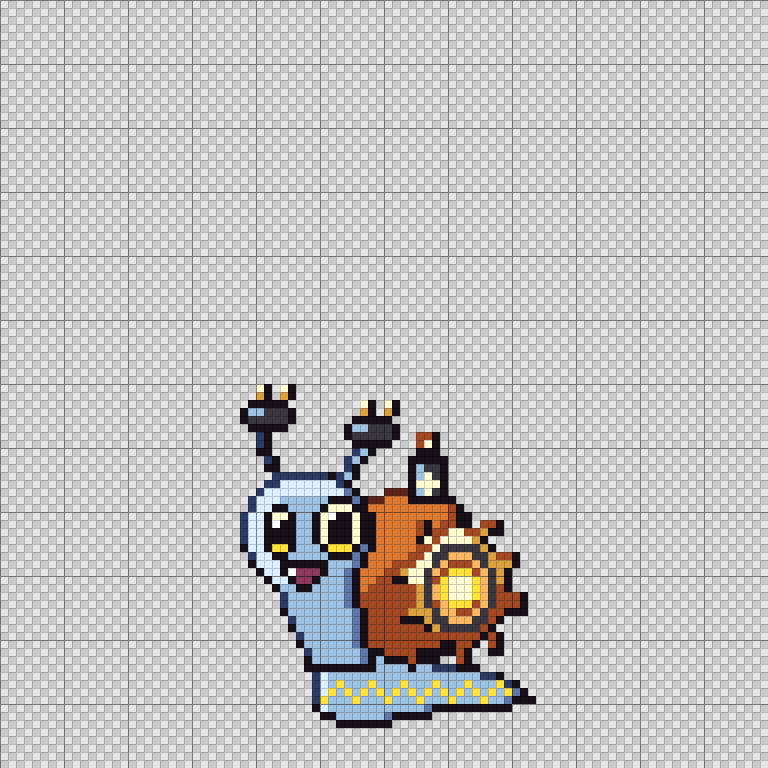
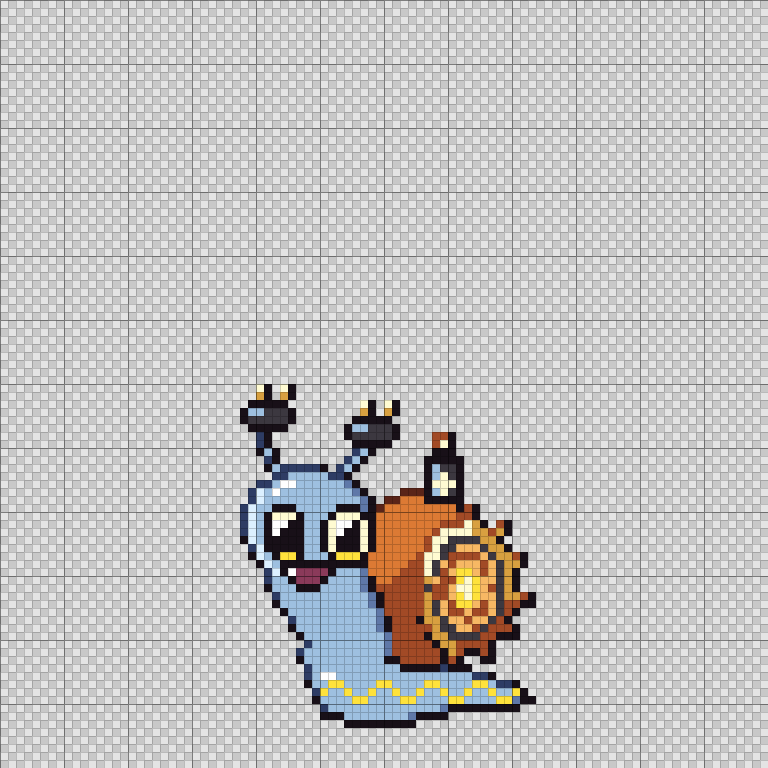
Zapail wip: one continuous slime body, bigger gear face, bigger eyes and mouth, zigzag, glints
Claude-Session: https://claude.ai/code/session_01NDaBcuNY8LLNS1rzT9Z9Co

Changed region(s): [[0.3125, 0.5625, 0.7188, 0.9688]]

diff --git a/art/creatures/wip/zapail_tr.px.js b/art/creatures/wip/zapail_tr.px.js
@@ -28,41 +28,41 @@ sprite("zapail_tr", { w: 96, h: 96 }, (c) => c.grid(30, 48, `
     kaannnk........uk.uk
     knnnnnk.......kkkkk
     .kkkkk.......kaannnk
-    ..Bk.........knnnnnk..qqk
-    ..Bk..........kkkkk...qYk
-    ..kk..........Bak.....kkk
-    ...Bk........Bak.....kkkkk
-    ...kk........Bk......kannk
-    ....BBBBBBBkBak......kaYnk
-    ...BBAAAAAAABk.......kYYYk
-    ..BAAAAAAAAAAbk...QQQkaYnk
-    .BAAAaaaaaakkkbkQQoookkkkkk
-    .BAAkkaaaakYYYkkooooooooooqk
-    BAAkYYkaakYwkkYkkoooooooooqkk
-    BAAkwkkaakYkkkYkkoooooqkoqqkk.qqk
-    BAAkkkkaakYkkkYkkoooooqkqqYYqqukk
-    BAAkkkkaakYkkkYkkoooookYqYYYYuk
-    kAAkyykaaakyyykbkoooooqqYnnnnnuk
-    .BAAkkaaaaakkkbkoooooqqYnnOOOnnuqqk
-    .kAAAkkkkkkaaabkoooqqqYYnOqqqOnuuuk
-    ..kAAkwmmmkaabkoooqquYYnOqyyyqOnuk
-    ...kAAkmmkaaabkooqqkkYYnqyYYYyOnuk
-    ....kaakkaaaabkoqqqqqqunOyYYYyOnqk
-    .....BaaaaaaabkqqqqqqqunOyYYYyOnqqqk
-    .....BaaaaaaabkqqqqqqqunqOyyyqOnqqqk
-    .....kaaaaaaaabkqqqqquuunOOqqOnqqkkk
-    ......BaaaaaaabkqqqqkkkunnOOOnnqk
-    ......kaaaaaaabkqqqqqqqkunnnnnqk
-    .......Baaaaaabkqqqqqqqqqqqqqqkqk
-    .......kaaaaaabkqqqqqqqqqkkqqk.qk
-    ........Baaaaaabkkqqqqkkkkkqk..kk
-    ........kaaaaaabkakkkqkkk..qk
-    ........kkkkkkkkkaaaakaaBBBkkk
-    .........BAaaaaaaaaaaaaaaaaaaaBBk
-    .........BAayaaayaaayaaayaaayaaayBk
-    .........BAyayayayayayayayayayayaybk
-    .........Byaaayaaayaaayaaayaaayaabkkk
-    .........kAaaaaaaaaaaaabkkkkkkkkkk
-    ..........kkaaaaaabkkkkk
-    ............kkkkkkk
+    ..Bk.........knnnnnk....qqk
+    ..Bk..........kkkkk.....qYk
+    ..kak.........Bak.......kkk
+    ...Bk........Bak.......kkkkk
+    ...kaBBBBBk.Bak........kannk
+    ....BBaaaaaBBk.........kaYnk
+    ..BBawwaaaaaabk........kYYYk
+    .BAawaaaaaaaaabk....QQQkaYnk
+    .BAaaaaaaaaaaaabk.QQoookkkkk
+    BAaakkkaaaaakkkbkQoooooooookqk
+    BAakYYYkaaakYYYkkooooooooooqqk
+    BAakwwkkaakYwwkYkooooooooqqqYuk.qk
+    BAakwkkkaakYwkkYkoooooooqYYYYuuquk
+    kAakkkkkaakYkkkYkooooooqYYnnnnuuk
+    .BAkkkkkaakYkkkYkooooooqYnnOOOnuuk
+    .kAakyykaaakyyykooooooqYYnqqqqOnuuqk
+    ..kAakkkkkkkkkkkoooooqqYnOqOOOqOnuuk
+    ...BAkwmmmmkaaabooooqqqYnqOyyOqOnuk
+    ...BaakmmmkaaaabkooqqqquOqqyYyOOnuk
+    ...kaaakkkaaaaabkqqqqqqnqqOYYyOqnuk
+    ....BaaaaaaaaaaabkqqqqquqqOyYyOOnuuqk
+    ....kaaaaaaaaaaabkqqqqqunOqyyOqOnqqkk
+    .....kaaaaaaaaaaabqqqqqunOqqOqqOnqk
+    ......BaaaaaaaaaabkqqqkuunOOqOOnqk
+    ......kaaaaaaaaaabkqqqqqunnOOqnqqqk
+    .......kaaaaaaaaaabqqqqkuunnnnqqkkk
+    ........Baaaaaaaaabqqqqqkuuqqqqk
+    .......Baaaaaaaaaabqqqqqqkuqkkqk
+    .......kaaaaaaaaaakkqqqqqkqk..kk
+    ........BaaaaaaaaaaakkkkkBkkk
+    ........BawwaaaaaaaaaaaaaaaaaBBk
+    ........kaayyaaaayyaaaayyaaaayyaBBk
+    .........Byaayaayaayaayaayaayaayaayk
+    .........kaaaayyaaaayyaaaayyaaaayybkk
+    ..........Baaaaaaaaaaaaaabkkkkkkkkk
+    ..........kkkaaaaaaaabkkkk
+    .............kkkkkkkkk
     .`))
